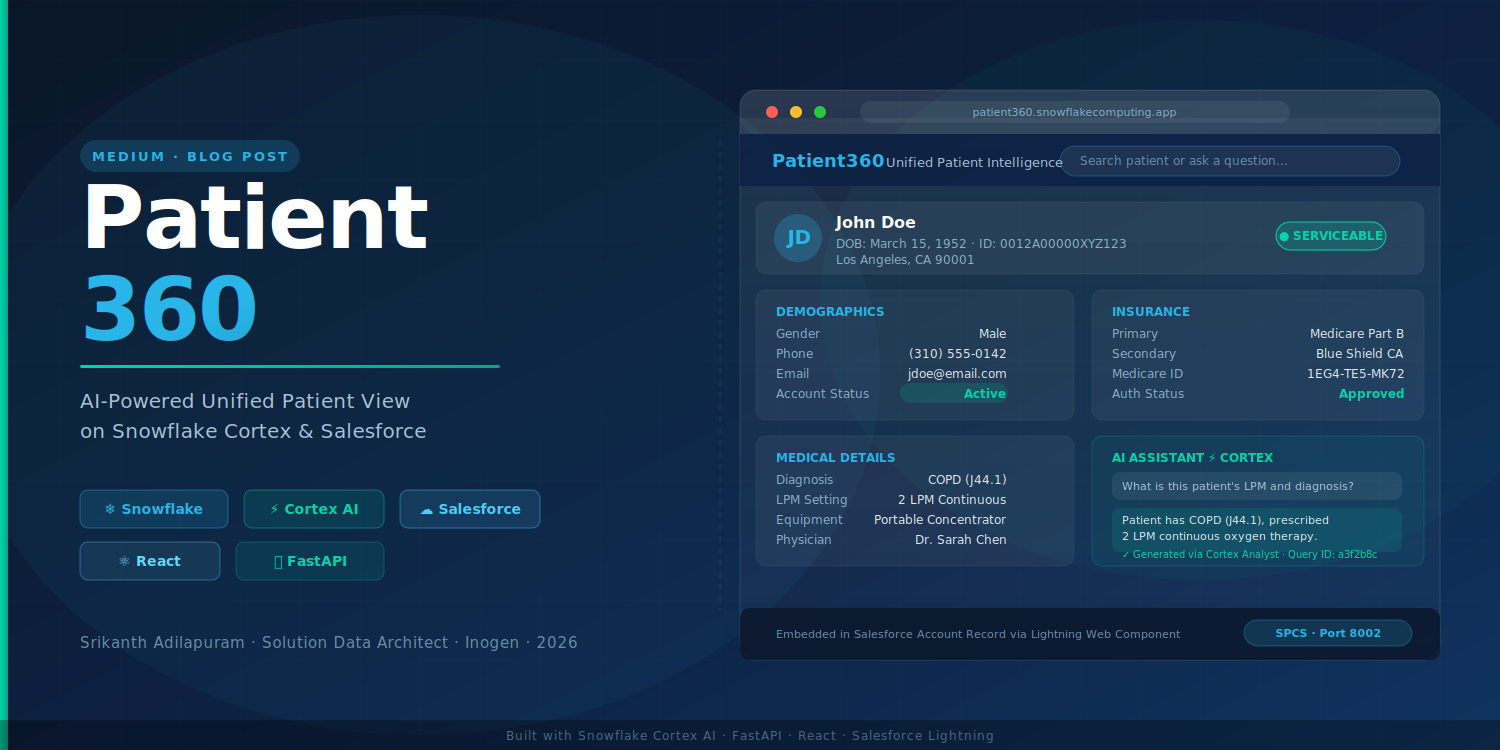
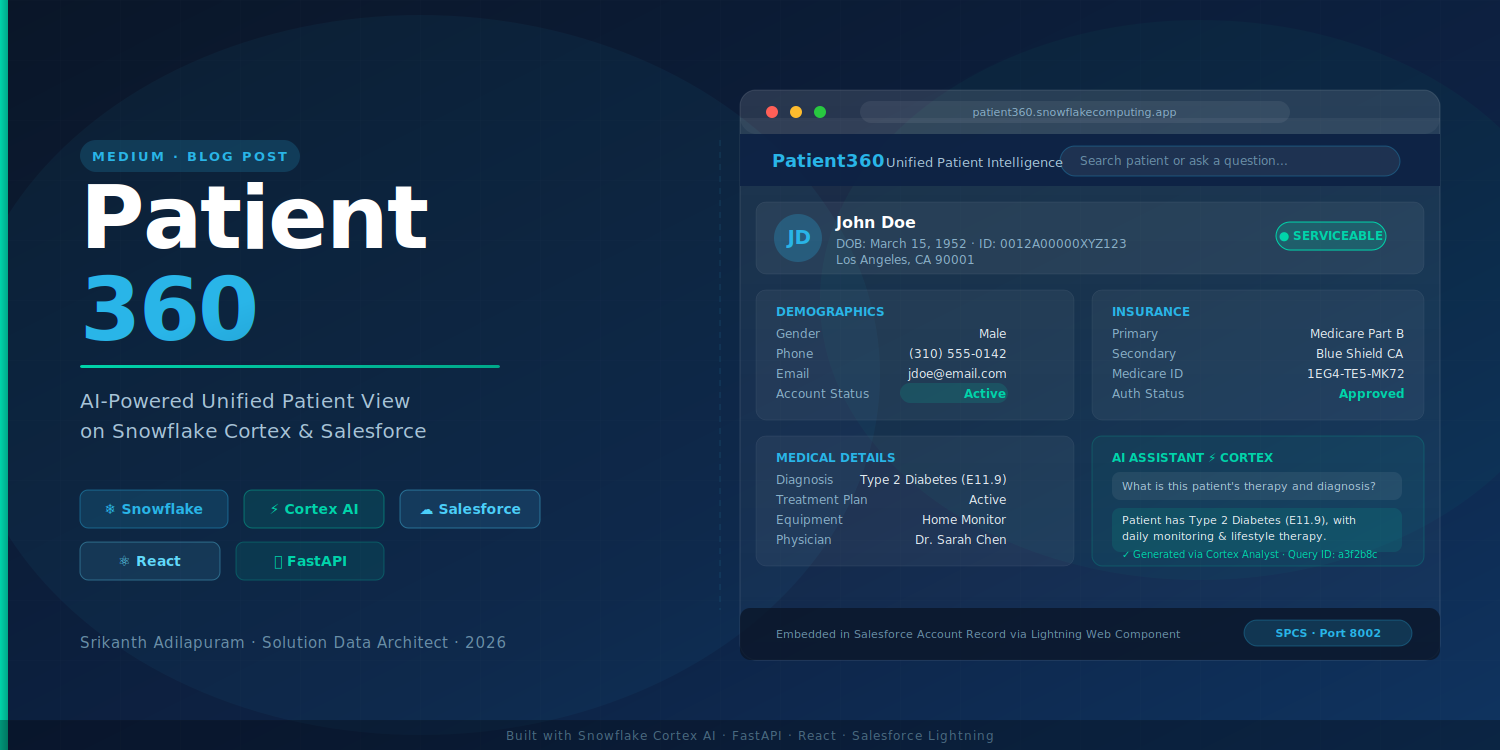
Redact LPM, COPD, and Inogen references from blog and cover

Changed region(s): [[0.736, 0.644, 0.92, 0.736], [0.5213, 0.6133, 0.6747, 0.7053], [0.3067, 0.828, 0.3373, 0.8893]]

diff --git a/Patient360_Medium_Blog_Post.md b/Patient360_Medium_Blog_Post.md
@@ -28,7 +28,7 @@ Patient360 is a full-stack application that gives care teams:
 
 1. **A single-pane-of-glass dashboard** showing demographics, contact info, insurance, medical details, account status, and physician information — all surfaced in real time from Snowflake.
 
-2. **A conversational AI agent** powered by Snowflake Cortex that translates natural-language questions ("What is this patient's primary diagnosis and LPM setting?") into SQL against a semantic data model, then returns a clean, structured answer — no SQL knowledge required.
+2. **A conversational AI agent** powered by Snowflake Cortex that translates natural-language questions ("What is this patient's primary diagnosis and therapy setting?") into SQL against a semantic data model, then returns a clean, structured answer — no SQL knowledge required.
 
 3. **A native Salesforce integration** via a Lightning Web Component (LWC) that embeds the entire Patient360 dashboard directly into the Salesforce Account record page, so reps never leave the CRM.
 
@@ -128,7 +128,7 @@ The agent spec is declarative JSON:
 }
 ```
 
-The semantic view (`PATIENT_360`) is the key abstraction. It maps business-friendly terms — "primary diagnosis," "LPM setting," "serviceable status" — onto the underlying Snowflake tables. This means the AI agent never needs to know schema internals, and business users can ask questions in their own language.
+The semantic view (`PATIENT_360`) is the key abstraction. It maps business-friendly terms — "primary diagnosis," "therapy setting," "serviceable status" — onto the underlying Snowflake tables. This means the AI agent never needs to know schema internals, and business users can ask questions in their own language.
 
 ### Why Cortex Agent instead of raw LLM calls?
 
@@ -384,7 +384,7 @@ Once the semantic model is in place, the agent becomes a powerful interface for 
 - *"Show me the patient's insurance information and Medicare details."*
 - *"Is this patient currently serviceable or on hold?"*
 - *"What are the physician contact details on file?"*
-- *"What LPM setting is prescribed for this patient?"*
+- *"What therapy setting is prescribed for this patient?"*
 
 The agent translates each into verified SQL against the `PATIENT_360` semantic view, executes it in Snowflake's warehouse, and returns a structured natural-language response — with optional Vega-Lite visualizations if the query warrants a chart.
 
@@ -454,7 +454,7 @@ If your organization has fragmented patient, customer, or operational data livin
 
 ---
 
-*Built on Snowflake Cortex AI, FastAPI, React 18, and Salesforce Lightning. Questions or feedback? Reach out at sadilapuram@inogen.net.*
+*Built on Snowflake Cortex AI, FastAPI, React 18, and Salesforce Lightning. Questions or feedback? Reach out at srikanth.adilapuram@gmail.com.*
 
 ---
 
